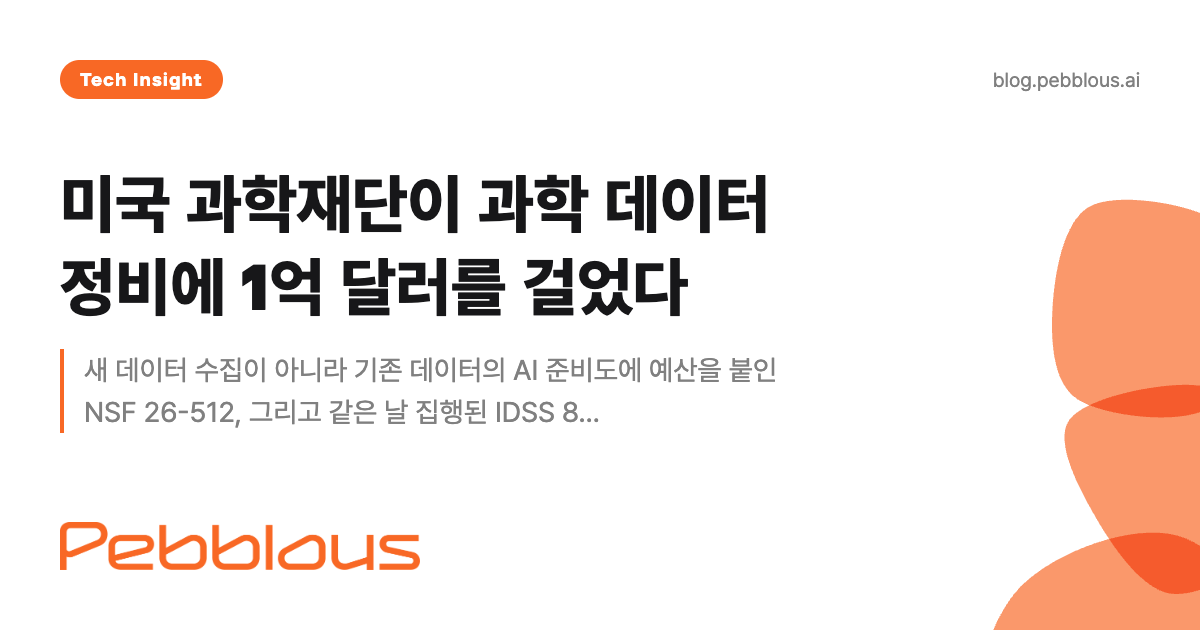
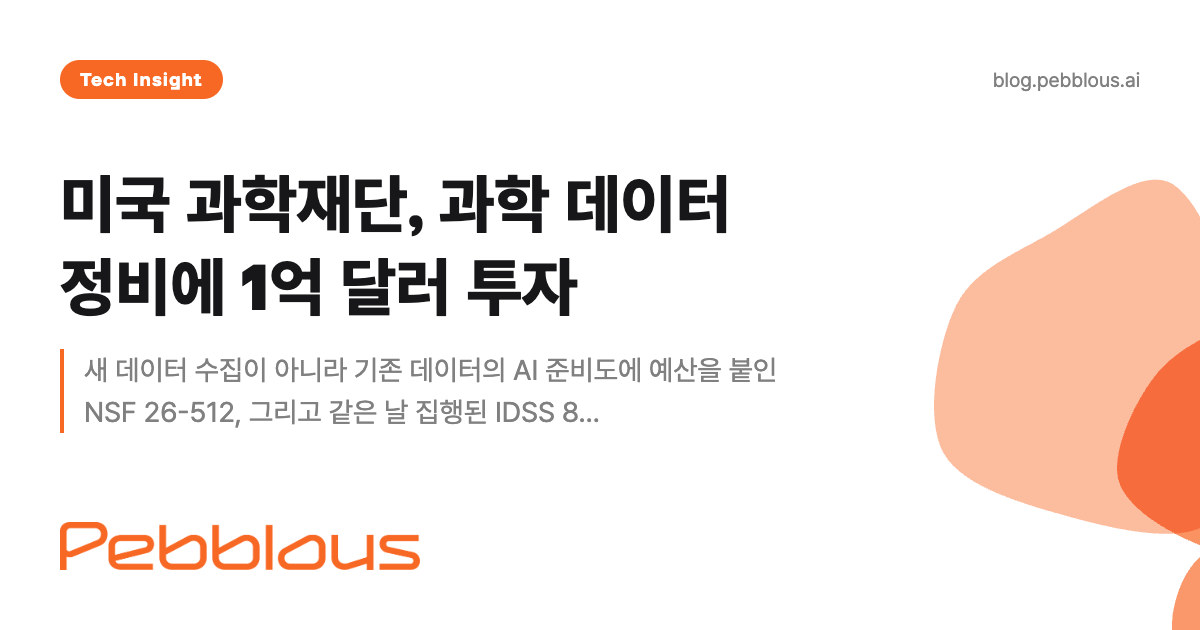
chore(titles): 제목·메타 일괄 교정 1건/2필드 (제목 검토 콘솔)\n\n- nsf-dataset-value-ai-budget-ko:\n    제목: 미국 과학재단이 과학 데이터 정비에 1억 달러를 걸었다 → 미국 과학재단, 과학 데이터 정비에 1억 달러 투자\n    OG 이미지 제목: (없음) → 미국 과학재단, 과학 데이터 정비에 1억 달러 투자

Changed region(s): [[0.7708, 0.2714, 1.0, 1.0], [0.3392, 0.2714, 0.6475, 0.5127]]

diff --git a/blog/nsf-dataset-value-ai-budget/ko/index.html b/blog/nsf-dataset-value-ai-budget/ko/index.html
@@ -10,7 +10,8 @@
     <meta name="copyright" content="© 2026 Pebblous. All rights reserved.">
     <meta name="robots" content="index, follow">
 
-    <title>미국 과학재단 NSF, 과학 데이터 AI 준비 예산 1억 달러 | 페블러스</title>
+    <title>미국 과학재단, 과학 데이터 정비에 1억 달러 투자 | 페블러스</title>
+    <meta name="og-image-title" content="미국 과학재단, 과학 데이터 정비에 1억 달러 투자">
     <meta name="description" content="2026년 7월 22일 미국 국립과학재단(NSF)이 기존 과학 데이터의 AI 준비도를 높이는 데 최대 1억 달러를 배정한 신규 솔리시테이션 NSF 26-512를 발표했다. 새 데이터 수집은 지원하지 않는다. 같은 날 IDSS 프로그램으로 8,300만 달러가 집행됐고, 이는 Genesis Mission 15개 기관 50억 달러 투자의 일부다.">
     <meta name="keywords" content="NSF 데이터 예산, AI-Ready Data, 미국 과학재단, 과학 데이터 AI 준비도, NSF 26-512, Unlocking Dataset Value, Genesis Mission, IDSS, 데이터 준비도, AI 정책">
     <link rel="canonical" href="https://blog.pebblous.ai/blog/nsf-dataset-value-ai-budget/ko/">
@@ -22,7 +23,7 @@
 
     <!-- OG -->
     <meta property="og:type" content="article">
-    <meta property="og:title" content="미국 과학재단이 과학 데이터 정비에 1억 달러를 걸었다">
+    <meta property="og:title" content="미국 과학재단, 과학 데이터 정비에 1억 달러 투자">
     <meta property="og:description" content="새 데이터 수집이 아니라 기존 데이터의 AI 준비도에 예산을 붙인 NSF 26-512, 그리고 같은 날 집행된 IDSS 8,300만 달러. AI-Ready Data가 슬로건에서 예산 항목이 된 순간.">
     <meta property="og:url" content="https://blog.pebblous.ai/blog/nsf-dataset-value-ai-budget/ko/">
     <meta property="og:image" content="https://blog.pebblous.ai/blog/nsf-dataset-value-ai-budget/ko/image/index.png">
@@ -30,7 +31,7 @@
 
     <!-- Twitter -->
     <meta name="twitter:card" content="summary_large_image">
-    <meta name="twitter:title" content="미국 과학재단이 과학 데이터 정비에 1억 달러를 걸었다">
+    <meta name="twitter:title" content="미국 과학재단, 과학 데이터 정비에 1억 달러 투자">
     <meta name="twitter:description" content="새 데이터를 모으는 게 아니라 이미 쌓인 데이터를 AI가 쓸 수 있게 만드는 일에 NSF가 1억 달러를 배정했다. 데이터 정비가 국가 예산 항목이 됐다.">
     <meta name="twitter:image" content="https://blog.pebblous.ai/blog/nsf-dataset-value-ai-budget/ko/image/index.png">
     <meta name="twitter:image:alt" content="미국 과학재단이 과학 데이터 정비에 1억 달러를 걸었다">
@@ -329,9 +330,9 @@
               },
               "recordedAt": "2026-08-04T18:28:01.793Z"
             },
-            mainTitle: "미국 과학재단이 과학 데이터 정비에 1억 달러를 걸었다",
+            mainTitle: "미국 과학재단, 과학 데이터 정비에 1억 달러 투자",
             subtitle: "NSF 26-512 솔리시테이션과 함께, 같은 날 IDSS 프로그램이 8,300만 달러를 집행했다",
-            pageTitle: "미국 과학재단 NSF, 과학 데이터 AI 준비 예산 1억 달러 | 페블러스",
+            pageTitle: "미국 과학재단, 과학 데이터 정비에 1억 달러 투자 | 페블러스",
             category: "tech",
             publishDate: "2026-08-05",
             publisher: "(주)페블러스 데이터 커뮤니케이션팀",
